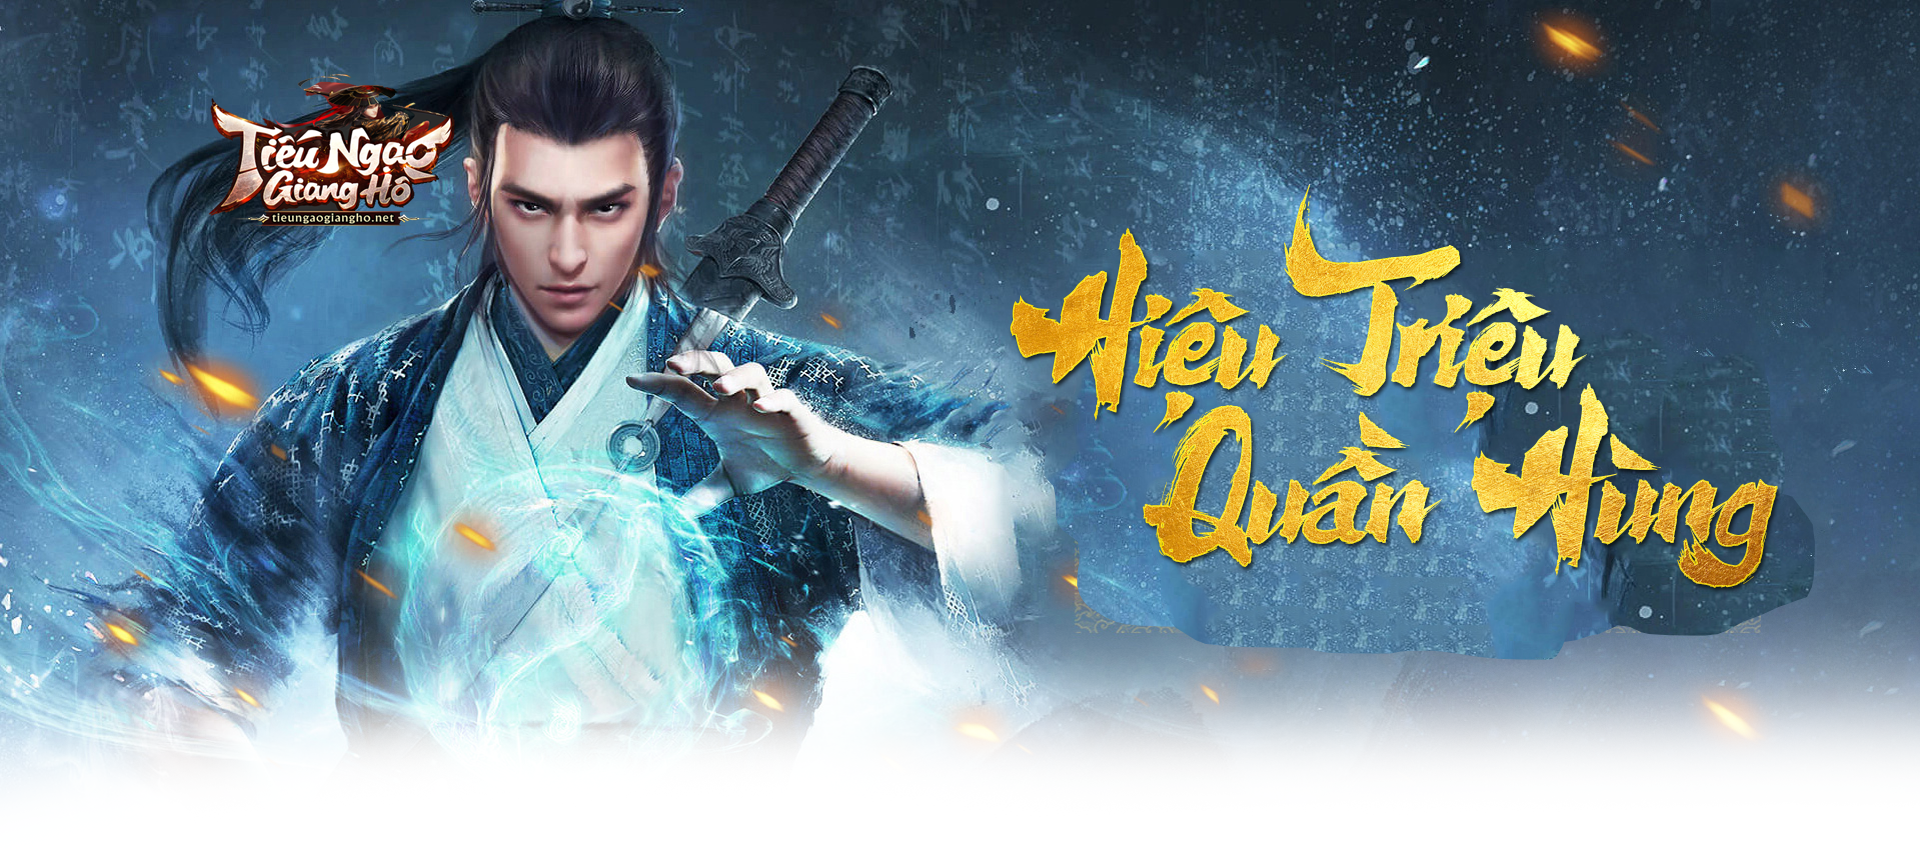
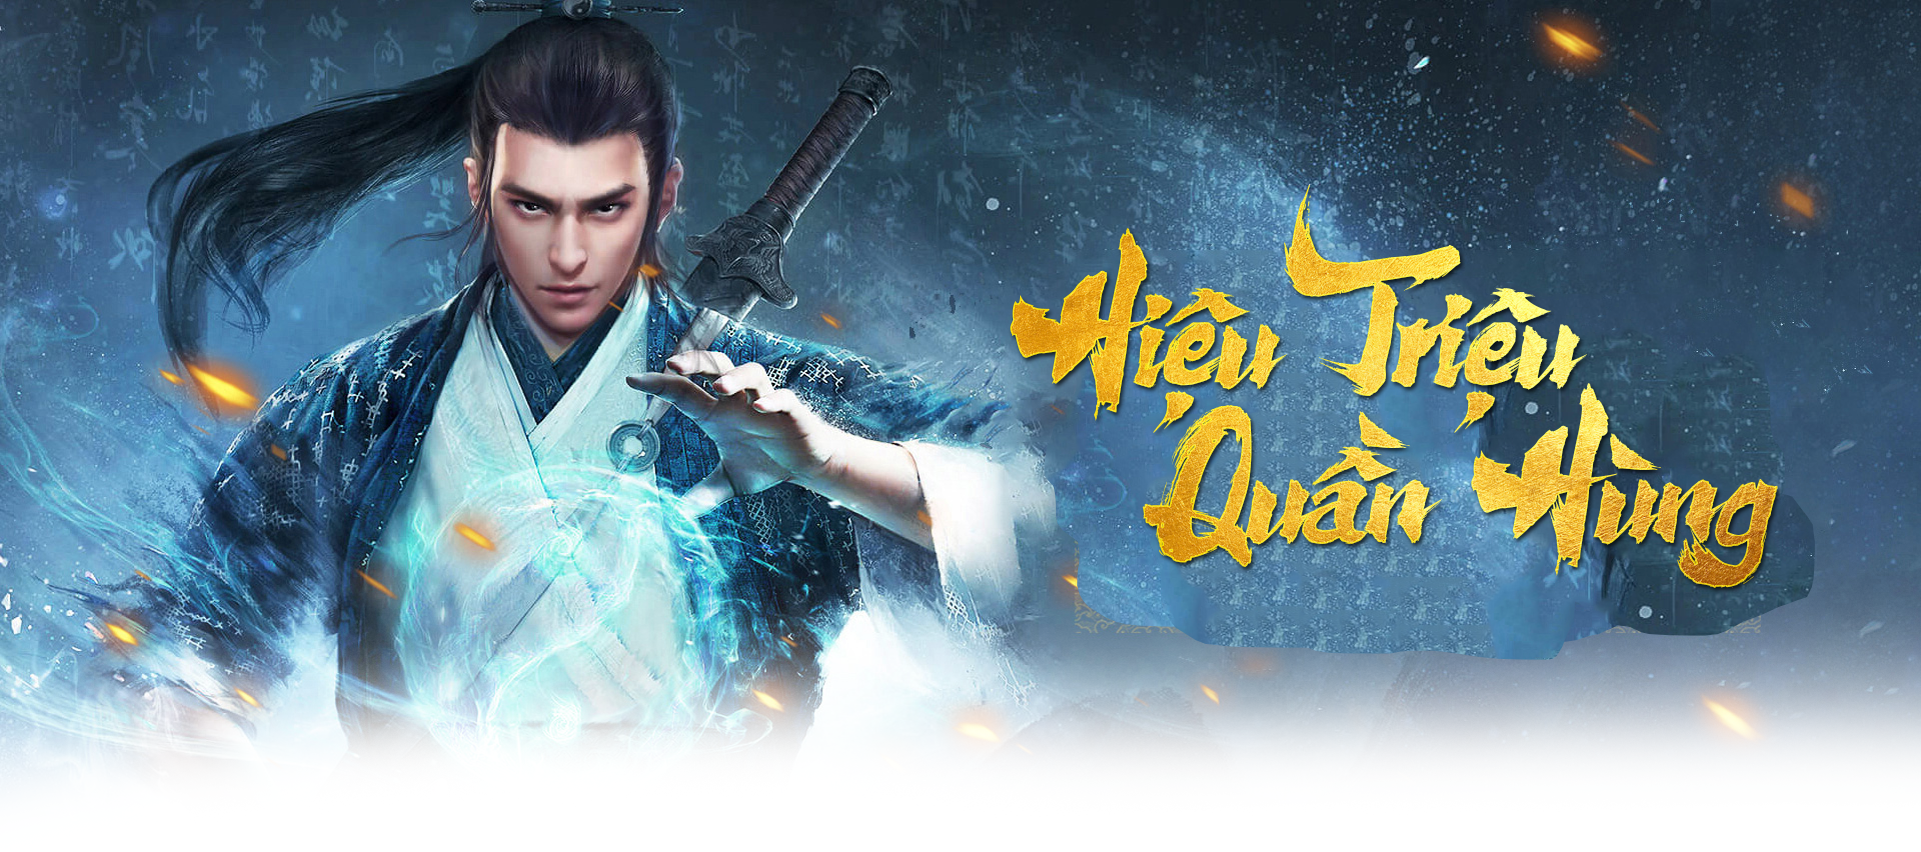
up

diff --git a/style.css b/style.css
@@ -158,6 +158,9 @@ body {
 .header-item_hover-item a{
     width: 100%;
 }
+.header-item_hover-item:hover a{
+    color: #92201a;
+}
 .header-item_line{
     width: 2px;
     height: 15px;
@@ -239,6 +242,7 @@ body {
     display: flex;
     flex-direction: column;
     gap: 8px;
+    z-index: 3;
 }
 .section1-table-right {
     width: 55%;
@@ -248,6 +252,7 @@ body {
     align-items: center;
     min-height: 600px;
     box-sizing: border-box;
+    z-index: 3;
 }
 .table-left-item2{
     width: 100%;
@@ -379,6 +384,7 @@ body {
 }
 .left-item1-top_right-text-donate:hover{
     background-image: url(./accset/section1/btn_donate_hover.png);
+    filter: brightness(1.3) contrast(1.1);
 }
     
 .left-item1-top_right-text-donate a{
@@ -532,6 +538,7 @@ body {
     background-color: #d2d2d2;
     width: 100%;
     padding: 0 30px;
+    margin-top: -6px;
 }
 .table-right_xemthem a{
     display: inline-block;
@@ -540,10 +547,9 @@ body {
     background-position: center;
     background-repeat: no-repeat;
     color: #fff;
-    padding: 10px 15px;
+    padding: 5px 15px;
     font-size: 19px;
     float: inline-end;
-    margin-top: 4px;
 }
 .container-section2{
     margin-top: -100px;
@@ -685,7 +691,6 @@ body {
     position: fixed;
     top: 50%;
     transform: translatey(-50%);
-    left: 0;
     right: 0;
     z-index: 100;
     width: 142px; /* Chiều rộng của sticky */
@@ -702,7 +707,7 @@ body {
     background-repeat: no-repeat;
     transition: transform 0.3s ease-in-out;
 }
-.sticky-container.hidden{
+.sticky.hidden{
     transform: translateX(85%);
 }
 .sticky-button{
@@ -733,6 +738,10 @@ body {
     height: 80px;
     right: 23px;
     top: 20px;
+    cursor: pointer;
+}
+.sticky-item1:hover{
+    filter: brightness(1.3) contrast(1.1);
 }
 .sticky-item2{
     position: absolute;
@@ -747,12 +756,20 @@ body {
     background-size: contain;
     background-position: center;
     background-repeat: no-repeat;
+    cursor: pointer;
+}
+.sticky-item2_button.top:hover{
+    filter: brightness(1.3) contrast(1.1);
 }
 .sticky-item2_button.bot{
     background-image: url(./accset/3.png);
     background-size: contain;
     background-position: center;
     background-repeat: no-repeat;
+    cursor: pointer;
+}
+.sticky-item2_button.bot:hover{
+    filter: brightness(1.3) contrast(1.1);
 }
 .sticky-item2_button{
     width: 81px;
@@ -786,6 +803,10 @@ body {
     background-size: contain;
     background-position: center;
     background-repeat: no-repeat;
+    cursor: pointer;
+}
+.sticky-item3_button.top:hover{
+    filter: brightness(1.3) contrast(1.1);
 }
 .sticky-item3_button.mid{
     background-image: url(./accset/5.png);
@@ -794,12 +815,20 @@ body {
     background-repeat: no-repeat;
     width: 81px;
     height: 34px;
+    cursor: pointer;
+}
+.sticky-item3_button.mid:hover{
+    filter: brightness(1.3) contrast(1.1);
 }
 .sticky-item3_button.bot{
     background-image: url(./accset/6.png);
     background-size: contain;
     background-position: center;
     background-repeat: no-repeat;
+    cursor: pointer;
+}
+.sticky-item3_button.bot:hover{
+    filter: brightness(1.3) contrast(1.1);
 }
 .slide-item{
     opacity: 0.5;
@@ -810,6 +839,19 @@ body {
 }
 .slide-item-header{
     margin-top: 60px;
+    position: relative;
+}
+.slide-item-header_logo{
+    background-image: url(./accset/logo.png);
+    background-size: contain;
+    background-position: center;
+    background-repeat: no-repeat;
+    position: absolute;
+    top: 50px;
+    left: 4%;
+    width: 200px;
+    height: 200px;
+
 }
 .slide-item-header img{
     width: 100vw;

diff --git a/reponsive.css b/reponsive.css
@@ -24,6 +24,9 @@
   .news-item:nth-child(6){
     display: none;
   }
+    .slide-item-header_logo{
+      top: 10%;
+    }
   
 }
 
@@ -82,6 +85,14 @@
     padding-top: 90px;
     margin-bottom: -55px;
     z-index: 1000;
+    cursor: pointer;
+    filter: brightness(1.2) contrast(1.1);
+  }
+  .header-mobile-logo a{
+    display: block;
+    width: 100%;
+    height: 185%;
+    margin-top: -85px;
   }
   .header-mobile-container{
     display: flex;
@@ -99,8 +110,14 @@
     background-size: contain;
     cursor: pointer;
   }
+  .mobile-container_bnt img:hover{
+    filter: brightness(1.3) contrast(1.1);
+  }
   .mobile-container_icon img{
     cursor: pointer;
+  }
+  .mobile-container_icon img:hover{
+    filter: brightness(1.3) contrast(1.1);
   }
   .mobile-container-menu-icon{
     color: #fff;
@@ -110,6 +127,11 @@
   }
   .slide-item-header{
     margin-top: 10vw;
+  }
+  .slide-item-header_logo{
+    width: 80px;
+    height: 80px;
+    top: 18%;
   }
   .header-mobli-container{
     width: 100%;
@@ -163,6 +185,8 @@
     display: flex;
     align-items: center;
     justify-content: center;
+    font-weight: 600;
+
   }
   .header{
     display: none;

diff --git a/index.html b/index.html
@@ -44,7 +44,7 @@
     
     <div class="header-mobile">
         <div class="header-mobli-container">
-            <div class="header-mobile-logo"></div>
+            <div class="header-mobile-logo"><a href="#"></a></div>
             <div class="header-mobile-container">
                     <div class="mobile-container_bnt">
                         <a href="#"><img src="./accset/mobile-bnt1.png" alt=""> </a>
@@ -107,6 +107,9 @@
         <div class="container-slide">
                 <div class="slide-item-header">
                     <img src="./accset/web_color.png" alt="Slide 1">
+                    <div class="slide-item-header_logo">
+                        <a href="#"></a>
+                    </div>
                 </div>
         </div>
         <div class="container-section1">

diff --git a/main.js b/main.js
@@ -2,7 +2,7 @@
 
 const buttonHide = document.querySelector('.sticky-button');
 buttonHide.addEventListener('click', () => {
-    const sticky = document.querySelector('.sticky-container');
+    const sticky = document.querySelector('.sticky');
     const bntMuiTen = document.querySelector('.sticky-button');
     sticky.classList.toggle('hidden');
     bntMuiTen.classList.toggle('hidden');
